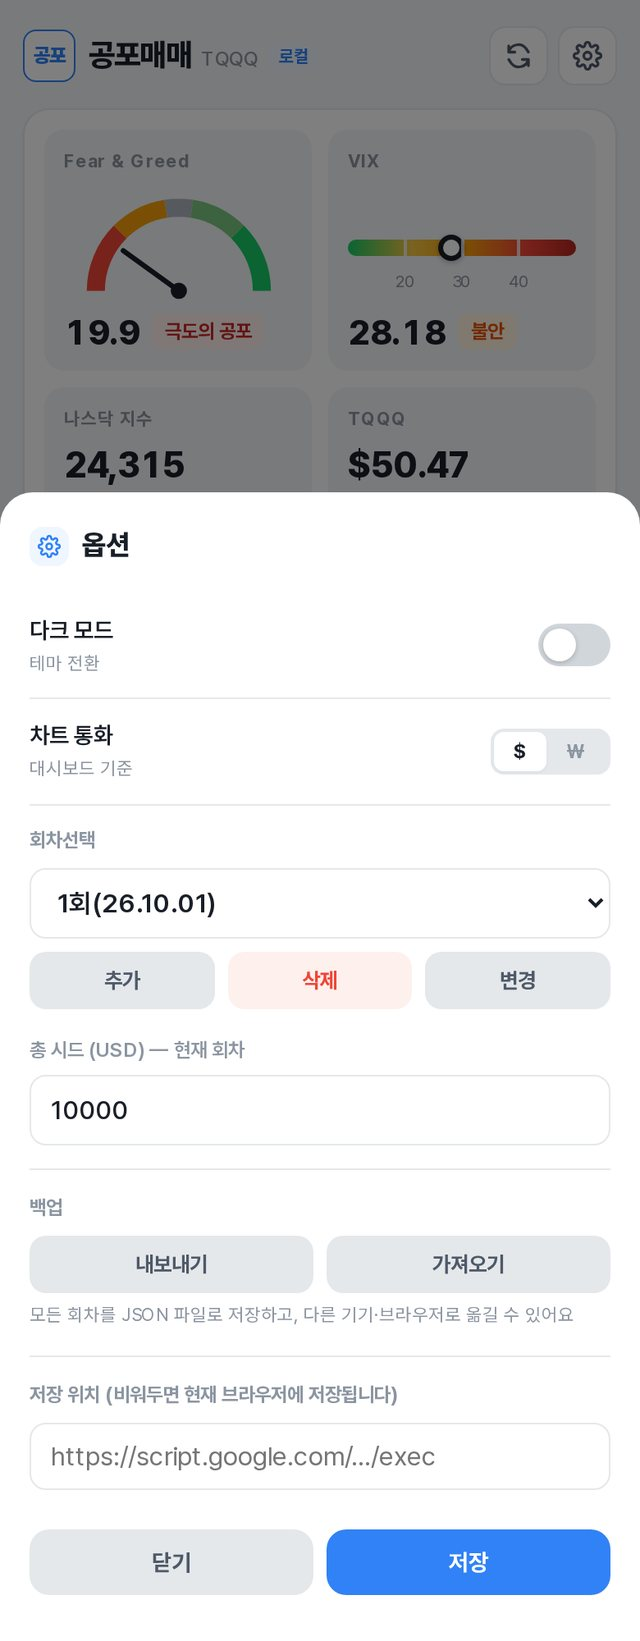
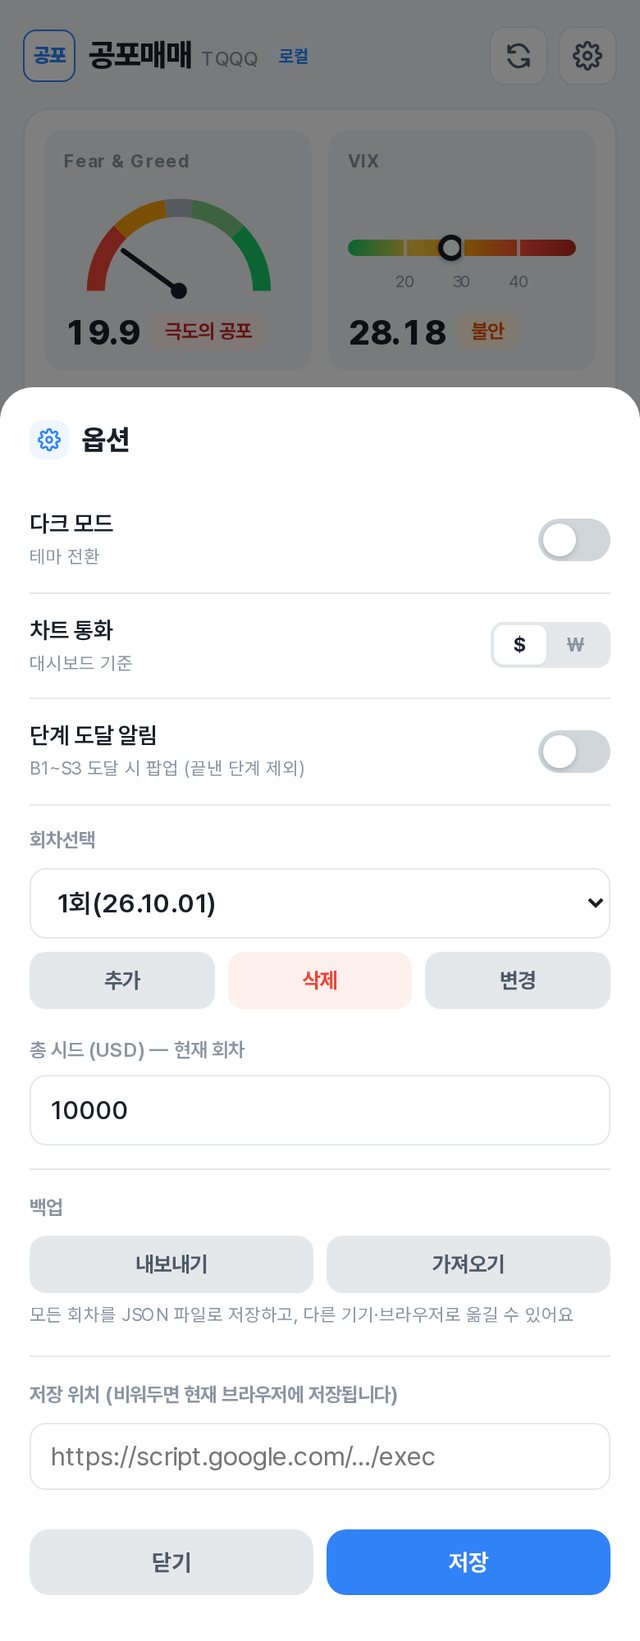
공포매매 단계 도달 알림 안내와 개인정보 방침 추가
소개 페이지(특징·사용법·참고), 개인정보 처리방침 3항(알림용으로 저장하는 값),
CLAUDE.md, 옵션 스크린샷을 새 알림 기능에 맞췄다.

diff --git a/CLAUDE.md b/CLAUDE.md
@@ -97,7 +97,7 @@ GitHub Pages(Jekyll)로 운영하는 투자 기록 사이트다. 게시판은 `i
 - 게시판 설정은 `_data/sections.yml`이고(상단 메뉴 순서도 이 순서), 목록 페이지는 `ipo.html`, `infinity.html`, `study.html`, 전체 글은 `posts.html`이다.
 - 상단 메뉴는 `홈 | 공모주 | 무한매수 | 공포매매 | 마켓시그널 | 공부요약` 순서다. (문의는 상단 메뉴에서 뺐고 하단 푸터 링크로만 들어간다.) 게시판 이름은 `sections.yml`의 `nav`(짧은 이름)로, 공포매매·마켓시그널은 `_layouts/default.html`에서 `study` 바로 앞에 끼워 넣는다. 메뉴 이름을 길게 바꾸면 폰에서 두 줄로 넘어가므로 바꿀 때마다 360px에서 확인한다.
 - **마켓시그널**(`market.html`, `/market/`)은 글이 아니라 별도 페이지다. 별도 저장소 `mzmzkgu/marketTraffic`가 만드는 `/marketTraffic/signals.json`(약 1시간마다 갱신)을 브라우저에서 읽어 카드로 그린다. `marketTraffic` 저장소와 `signals.json` 구조(`assets.<키>.driver/signal/price/high_365d/mdd_pct/fg_score/ma120/premium_pct` 등)를 바꾸면 이 페이지도 같이 고친다. 신호 기준 설명은 그 저장소의 `backend/market_signal_updater.py`와 맞춘다. 비트코인은 `driver: trend_ma120`(현재가가 자기 120일선 위면 매수, 아래면 매도, 공포탐욕은 참고용)이고, 리플은 `driver: follow_asset`(비트코인 신호를 그대로 따라가며 `ref_price`·`ref_ma120`은 비트코인 값)이다. 미국채 10년물(`us10y`, `driver: yield_level`)은 금리 5.0% 이상이면 매수, 그 외 관망이고 매도 신호는 없다. 데이터에 없는 자산은 카드를 그리지 않는다. 화면은 위쪽에 공포탐욕 게이지(나스닥 `fg_score`)와 VIX 카드, 그 아래 3열씩 `나스닥·미국채10년물·달러 / 금·비트코인·김프`(`market.html`의 `ROWS`)로 그린다. 카드 색은 신호 색이다(매수=빨강, 관망=회색, 매도=파랑, 한국식). 공포탐욕 게이지는 공포=빨강, 중립=회색, 탐욕=초록이다. 카드에는 이름과 값만 보이고, 오른쪽 위 `i` 버튼을 누르면 상세 값과 신호 기준(`RULE`)이 아래에서 올라오는 안내창(`<dialog>`)으로 뜨며 바깥을 누르면 닫힌다. `i`가 아닌 카드를 누르면 `LINKS`에 있는 시세 사이트(네이버 증권, 김프는 kimp.co.kr, 공포탐욕은 CNN, VIX는 야후)가 새 탭으로 열린다. 엔화·리플은 데이터에는 있지만 화면에는 그리지 않는다. VIX(`vix`, `driver: level_info`, `signal: info`)는 참고용 지표라 매매 신호가 없고 20 미만 안정·20~30 불안·30 이상 공포로 수준만 보여 준다.
-- **공포매매**(`fearbuy.html`, `/fearbuy/`)는 글 게시판이 아니라 도구 소개 페이지다. 도구 본체는 별도 저장소 `mzmzkgu/buytheDip`(`/buytheDip/`, 정적 앱, 기록은 기본적으로 브라우저 localStorage에 저장하고 옵션에서 본인 구글 시트(Apps Script 웹앱 주소)로 바꿀 수 있다. 시트 모드에선 입력 기록이 사용자의 시트로 전송되므로 개인정보 방침(`privacy.md` 2항)의 설명과 맞춰 둔다)이고, 이 페이지의 **매매 규칙 표는 그 저장소 `app.js`의 `BUY_DEF`·`SELL_DEF`와 같아야 한다.** 규칙이나 화면이 바뀌면 표와 스크린샷(`assets/images/buythedip/`, 예시 데이터로 찍은 것)도 같이 고친다. 홈의 도구 카드에도 들어 있다. 이 앱은 시세를 `/marketTraffic/signals.json`의 `assets.nasdaq.fg_score`·`fg_rating`·`price`·`change_pct`(전일비, 나스닥 지수 카드), `assets.vix.vix`·`vix_state`, `assets.usdkrw.price`에서 읽고 TQQQ 가격만 무한매수와 같은 Cloudflare Worker(`/price?ticker=TQQQ`)에서 받으므로, `marketTraffic`의 `signals.json` 구조를 바꾸면 `buytheDip`의 `fetchMarket()`도 같이 고친다.
+- **공포매매**(`fearbuy.html`, `/fearbuy/`)는 글 게시판이 아니라 도구 소개 페이지다. 도구 본체는 별도 저장소 `mzmzkgu/buytheDip`(`/buytheDip/`, 정적 앱, 기록은 기본적으로 브라우저 localStorage에 저장하고 옵션에서 본인 구글 시트(Apps Script 웹앱 주소)로 바꿀 수 있다. 시트 모드에선 입력 기록이 사용자의 시트로 전송되므로 개인정보 방침(`privacy.md` 2항)의 설명과 맞춰 둔다)이고, 이 페이지의 **매매 규칙 표는 그 저장소 `app.js`의 `BUY_DEF`·`SELL_DEF`와 같아야 한다.** 규칙이나 화면이 바뀌면 표와 스크린샷(`assets/images/buythedip/`, 예시 데이터로 찍은 것)도 같이 고친다. 홈의 도구 카드에도 들어 있다. 앱에는 선택 기능 "단계 도달 알림"(웹 푸시)이 있어서 끝낸 단계·평단·보유수량이 구독 시트의 `fear` 탭에 저장되므로, 이 내용을 바꾸면 개인정보 방침 3항(공포매매 단계 도달 알림)과 소개 페이지의 알림 설명도 맞춰 둔다. 이 앱은 시세를 `/marketTraffic/signals.json`의 `assets.nasdaq.fg_score`·`fg_rating`·`price`·`change_pct`(전일비, 나스닥 지수 카드), `assets.vix.vix`·`vix_state`, `assets.usdkrw.price`에서 읽고 TQQQ 가격만 무한매수와 같은 Cloudflare Worker(`/price?ticker=TQQQ`)에서 받으므로, `marketTraffic`의 `signals.json` 구조를 바꾸면 `buytheDip`의 `fetchMarket()`도 같이 고친다.
 - 소개와 문의는 `contact.md`(`/contact/`) 한 페이지로 합쳤다. `about.html`은 옛 `/about/` 주소를 `/contact/`로 보내는 이동용 파일이니 지우지 않는다.
 - 공모주(`ipo.html`)·무한매수(`infinity.html`)·공포매매(`fearbuy.html`)·공부요약(`study.html`, 탭 없이 안내 카드 + 글 목록만, 주황. 목록은 태그 필터와 10개씩 페이지 나누기가 있고 `_includes/bd-list-tools-js.html`, 자바스크립트가 꺼져 있으면 전부 보여 준다. 모든 글에 붙은 태그는 필터 칩에서 뺀다) 소개 화면은 같은 카드 스타일(`bd-*` 클래스, `assets/style.css`)이다. 맨 위 안내 카드(PC는 그림, 폰은 아이콘), 그 아래 탭(`도구 소개 | 관련 글`, 공포매매는 `도구 소개 | 매매 규칙 | 사용법`), 탭 동작은 `_includes/bd-tabs-js.html`(주소 뒤 `#info` 등으로 탭을 바로 열 수 있다)이다. 색은 `.bd-page` 변수(공모주 파랑, 무한매수 인디고, 공포매매 빨강)로 바꾼다. 도구 설명이나 화면이 바뀌면 이 화면의 도구 특징·도구 화면도 같이 고친다.
 - **모든 글 목록(공모주·무한매수·공부요약·전체 글)은 10개씩 페이지로 나뉜다.** 목록 모양은 `_includes/bd-board-list.html`, 페이지·필터 동작은 `_includes/bd-list-tools-js.html`이다. 새 게시판 목록도 `{% include bd-board-list.html list=site.categories.키 %}`로 만들고 페이지 맨 아래에 `{% include bd-list-tools-js.html %}`를 넣는다. (태그 필터는 `filter=true`를 준 공부요약만 쓴다.)
